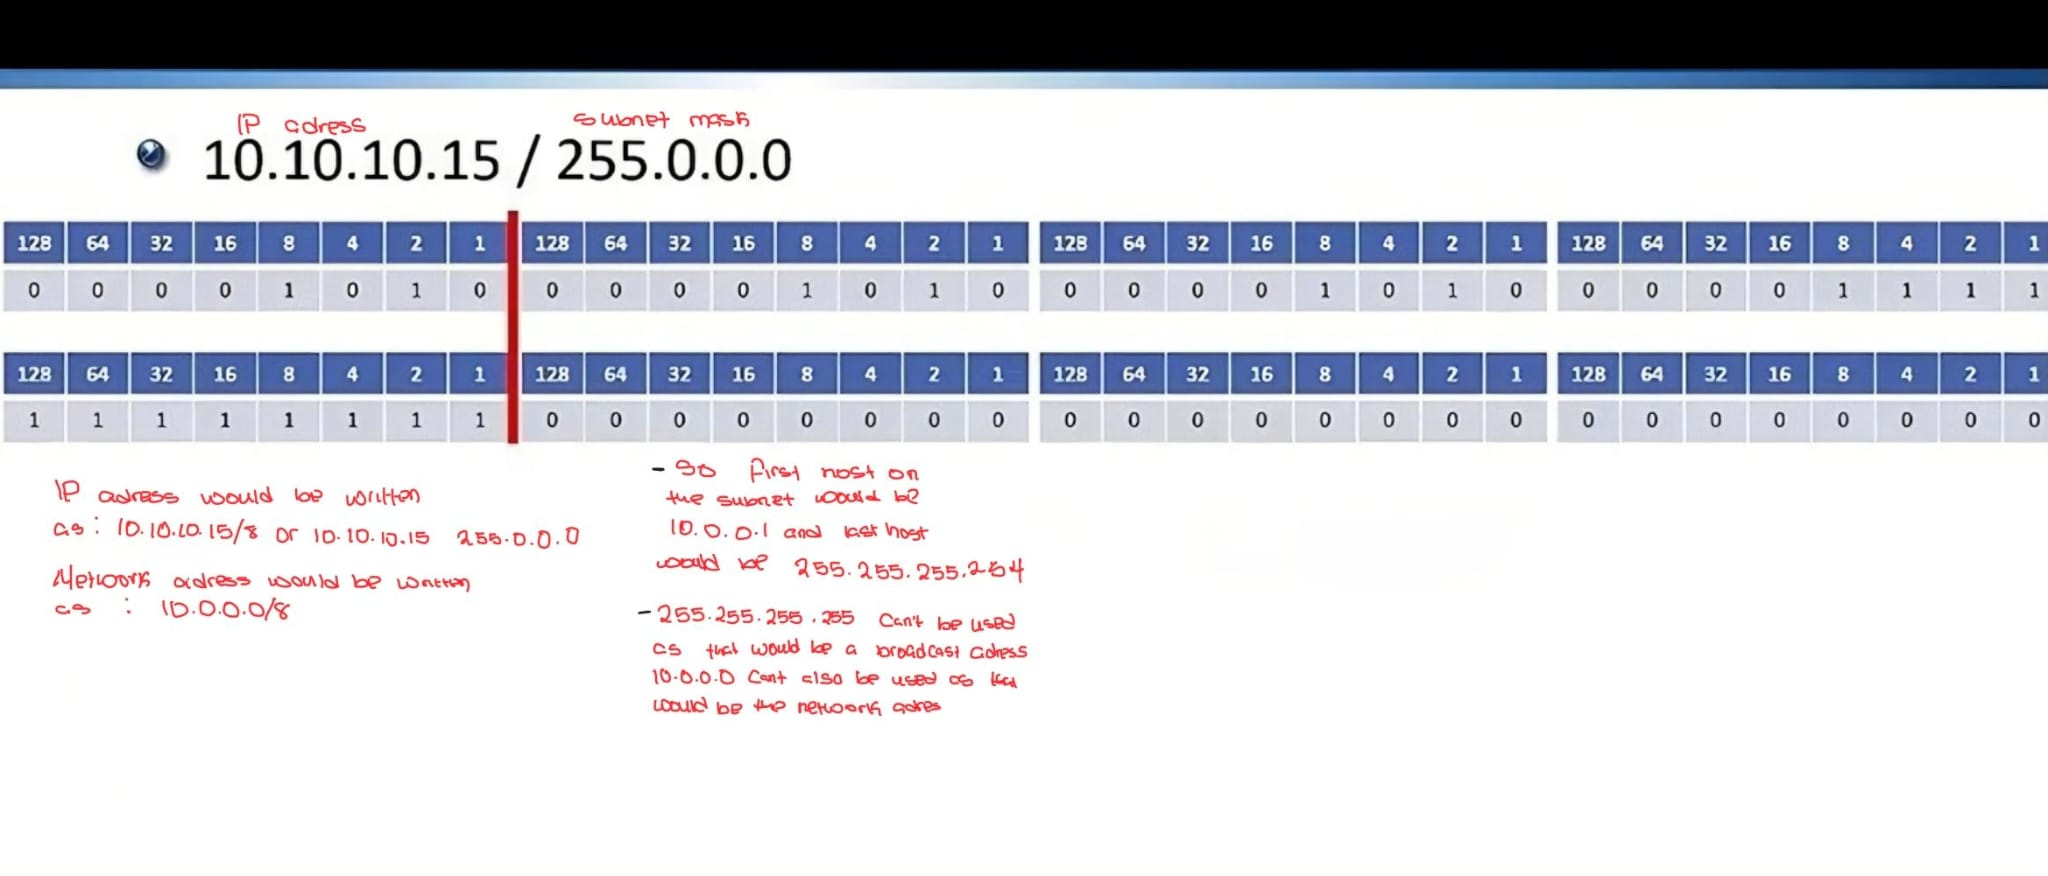
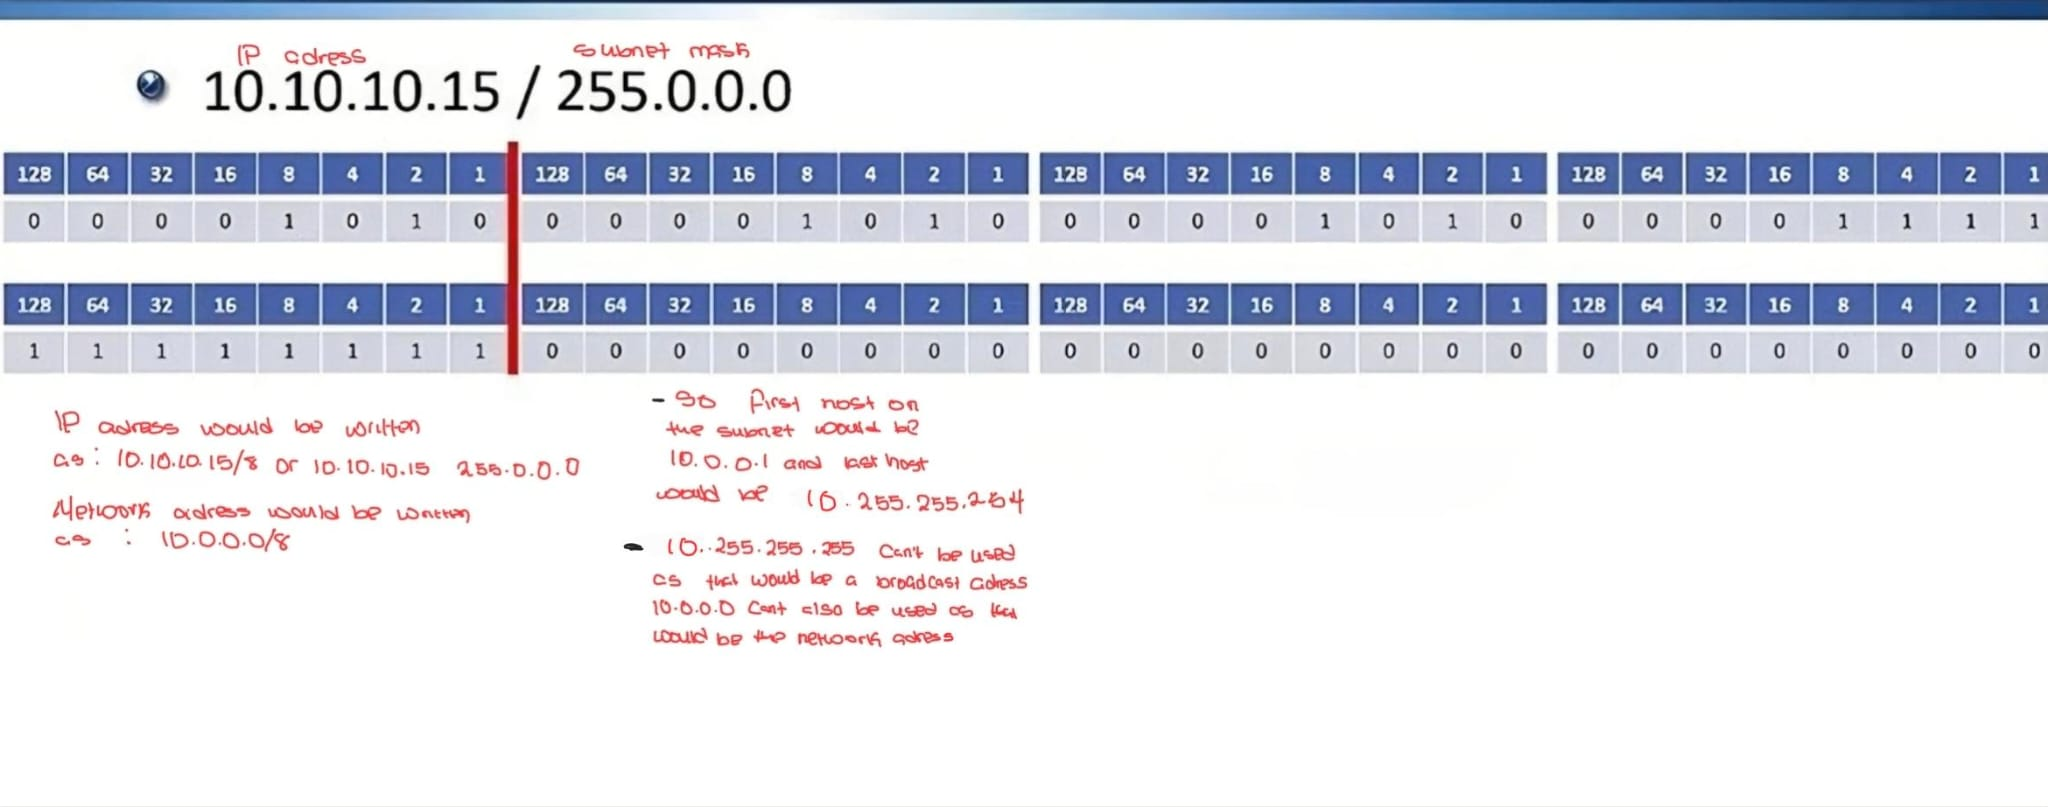
updated images

diff --git a/daily-journal/Day-03/Layer-3.md b/daily-journal/Day-03/Layer-3.md
@@ -98,3 +98,11 @@ Subnet masks always begin with contiguous "1"s so the 1s and 0s never mix up, li
   - `255.255.255.0` = `/24`
   - `255.255.0.0` = `/16`
 <img src="adress-notations.png" width="500">
+
+
+## Questions
+
+- What's the difference between the network address and host address, or rather what's their function?
+  - Got confused by how the first host is `10.0.0.1` and the last is `10.255.255.254`
+- What does it mean for a subnet to have contiguous 1s, and how does slash notation connect to that?
+- Would `11111111.00001111.11110000.11111111` be a legal subnet mask? What about `0.0.0.0` or `255.255.255.255`?